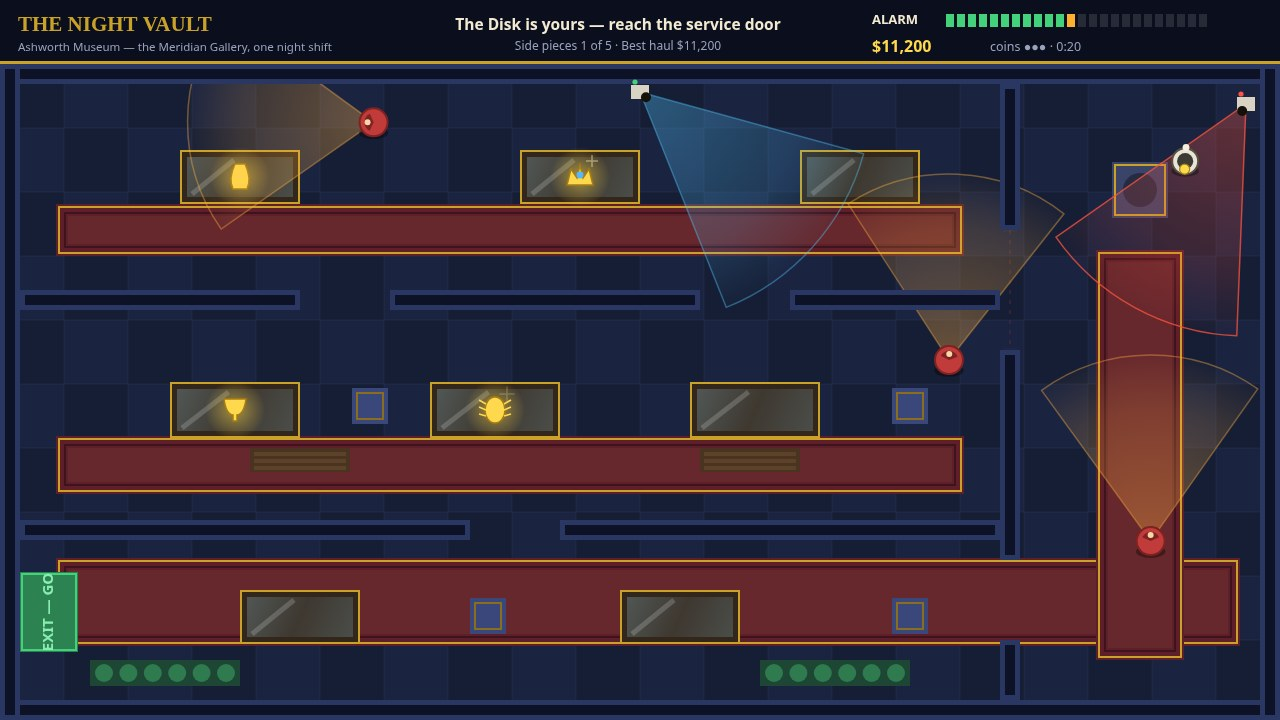
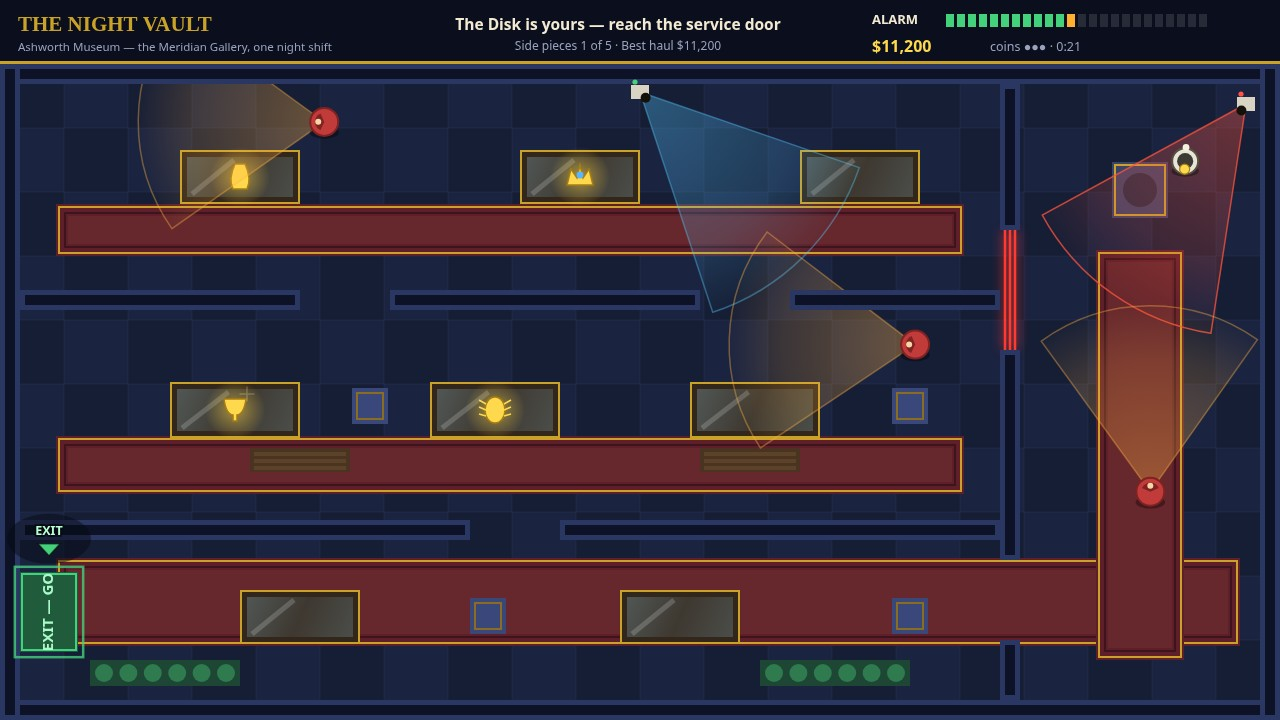
In-window revision: objective marker, guard mood bubbles, calmer camera opening

diff --git a/game/src/render.js b/game/src/render.js
@@ -1,8 +1,11 @@
 // Everything the player sees: the gallery floor and its furniture, the sweep of cones, the
-// actors, the HUD with its alarm meter, and the title, pause and ending screens. Canvas 2D,
-// drawn in field coordinates (1280x720); the page scales the canvas, never the art.
+// actors, the night's current goal marked with a pulsing ring and arrow so one glance at
+// one frame finds it, the HUD with its alarm meter, and the title, pause and ending
+// screens. Canvas 2D, drawn in field coordinates (1280x720); the page scales the canvas,
+// never the art.
 
 import { ALARM, FIELD, FONT_DISPLAY, FONT_UI, HUD_HEIGHT, PALETTE, VISION } from './config.js';
+import { guardMood, MOOD_CALM, MOOD_HUNT, MOOD_SPOTTED } from './guards.js';
 import { PHASE_CAUGHT, PHASE_WON } from './world.js';
 
 export const SCREEN_TITLE = 'title';
@@ -391,22 +394,34 @@ export function createRenderer(canvas) {
     ctx.arc(guard.x + Math.cos(guard.facing) * 6, guard.y + Math.sin(guard.facing) * 6, 3, 0, Math.PI * 2);
     ctx.fillStyle = '#f6d8a8';
     ctx.fill();
-    // What the guard is thinking, in the oldest notation there is.
-    let mark = null;
-    if (guard.mode === 'hunt') mark = '!';
-    else if (guard.sight > 0) mark = '!';
-    else if (guard.mode === 'investigate' || guard.mode === 'look') mark = '?';
-    if (mark) {
+    // What the guard is thinking, in the oldest notation there is: a bubble floating
+    // above its head — an amber '?' while it is only curious (staring, investigating,
+    // scanning), a red '!' once it is sure of the thief or the hunt is on.
+    const mood = guardMood(guard);
+    if (mood !== MOOD_CALM) {
+      const sure = mood === MOOD_SPOTTED || mood === MOOD_HUNT;
       const bob = Math.sin(t * 6) * 1.6;
+      const bx = guard.x;
+      const by = guard.y - guard.radius - 13 + bob;
+      if (mood === MOOD_HUNT) {
+        ctx.beginPath();
+        ctx.arc(bx, by, 11.5 + Math.sin(t * 10) * 1.5, 0, Math.PI * 2);
+        ctx.strokeStyle = 'rgba(255, 83, 71, 0.65)';
+        ctx.lineWidth = 1.6;
+        ctx.stroke();
+      }
       ctx.beginPath();
-      ctx.arc(guard.x + 13, guard.y - 19 + bob, 9, 0, Math.PI * 2);
-      ctx.fillStyle = mark === '!' ? '#ff5347' : '#ffd94d';
+      ctx.arc(bx, by, 9, 0, Math.PI * 2);
+      ctx.fillStyle = sure ? '#ff5347' : '#ffd94d';
       ctx.fill();
+      ctx.strokeStyle = 'rgba(10, 8, 4, 0.55)';
+      ctx.lineWidth = 1.2;
+      ctx.stroke();
       ctx.fillStyle = '#14100a';
       ctx.font = `bold 13px ${FONT_UI}`;
       ctx.textAlign = 'center';
       ctx.textBaseline = 'middle';
-      ctx.fillText(mark, guard.x + 13, guard.y - 18.5 + bob);
+      ctx.fillText(sure ? '!' : '?', bx, by + 0.5);
     }
   }
 
@@ -443,6 +458,69 @@ export function createRenderer(canvas) {
         ctx.fill();
       }
     }
+  }
+
+  /**
+   * The night's current goal, marked so a single glance at a single frame finds it: a
+   * pulsing outline around the target and a labelled arrow bobbing above it — gold over
+   * the Sun Disk while it waits on its pedestal, green over the service door once the
+   * Disk is in the bag and the door is the goal.
+   */
+  function drawObjectiveMarker(world) {
+    const t = world.time;
+    const pulse = 0.5 + 0.5 * Math.sin(t * 3.4);
+    let x;
+    let y;
+    let label;
+    if (world.hasDisk) {
+      const exit = world.level.exit;
+      x = exit.x + exit.w / 2;
+      y = exit.y + exit.h / 2;
+      label = 'EXIT';
+      const grow = pulse * 3;
+      ctx.strokeStyle = `rgba(67, 209, 124, ${0.55 + 0.35 * pulse})`;
+      ctx.lineWidth = 2.5;
+      ctx.strokeRect(exit.x - 3 - grow, exit.y - 3 - grow, exit.w + 6 + grow * 2, exit.h + 6 + grow * 2);
+    } else {
+      const disk = world.level.disk;
+      x = disk.x;
+      y = disk.y;
+      label = 'SUN DISK';
+      for (const ring of [0, 1]) {
+        ctx.beginPath();
+        ctx.arc(x, y, 31 + ring * 9 + pulse * 5, 0, Math.PI * 2);
+        ctx.strokeStyle = `rgba(255, 217, 77, ${ring === 0 ? 0.85 : 0.38})`;
+        ctx.lineWidth = ring === 0 ? 2.6 : 1.6;
+        ctx.stroke();
+      }
+    }
+    // The arrow: a chevron bobbing above the mark, pointing down at the goal, its name
+    // lettered over it on a dark stroke so it survives being shrunk to a thumbnail. A
+    // soft dark halo sits behind both, so the mark reads even over a lit carpet or a
+    // bright cone where gold on gold would vanish.
+    const tipY = y - 54 - Math.sin(t * 3.4) * 5;
+    ctx.beginPath();
+    ctx.ellipse(x, tipY - 17, 42, 25, 0, 0, Math.PI * 2);
+    ctx.fillStyle = 'rgba(7, 10, 20, 0.48)';
+    ctx.fill();
+    ctx.beginPath();
+    ctx.moveTo(x - 11, tipY - 12);
+    ctx.lineTo(x + 11, tipY - 12);
+    ctx.lineTo(x, tipY);
+    ctx.closePath();
+    ctx.fillStyle = world.hasDisk ? '#43d17c' : PALETTE.loot;
+    ctx.fill();
+    ctx.strokeStyle = 'rgba(10, 8, 4, 0.6)';
+    ctx.lineWidth = 1.4;
+    ctx.stroke();
+    ctx.font = `bold 12.5px ${FONT_UI}`;
+    ctx.textAlign = 'center';
+    ctx.textBaseline = 'middle';
+    ctx.lineWidth = 3.5;
+    ctx.strokeStyle = 'rgba(7, 10, 20, 0.85)';
+    ctx.strokeText(label, x, tipY - 24);
+    ctx.fillStyle = world.hasDisk ? '#b8ffd2' : '#ffe98a';
+    ctx.fillText(label, x, tipY - 24);
   }
 
   function drawHud(world, best) {
@@ -619,6 +697,7 @@ export function createRenderer(canvas) {
       drawThief(world);
       for (const guard of world.guards) drawGuard(guard, world.time);
       for (const camera of world.cameras) drawCamera(camera);
+      drawObjectiveMarker(world);
       // What the night just paid out, drifting up off the cases.
       ctx.textAlign = 'center';
       ctx.textBaseline = 'middle';

diff --git a/game/src/alarm.js b/game/src/alarm.js
@@ -1,6 +1,9 @@
 // The alarm meter: the night's tension as one number. Being seen pours points in (a guard's
 // eyes faster than a camera's lens, closer faster than far), hiding lets it drain, a tripped
-// laser dumps a lump in at once, and at the top the alarm trips and the hunt is on.
+// laser dumps a lump in at once, and at the top the alarm trips and the hunt is on. The one
+// mercy is the opening grace: for the first seconds of the night the cameras pour at half
+// their usual rate, so a first crossing of the first hall can go unseen — a guard who sees
+// the thief is never merciful, and neither is a laser.
 
 import { ALARM, VISION } from './config.js';
 
@@ -11,6 +14,8 @@ export function createAlarm() {
     peak: 0,
     /** Seconds since anyone last saw the thief; the drain waits for a quiet moment. */
     unseenFor: 0,
+    /** Seconds since the night began; the opening grace is measured against it. */
+    elapsed: 0,
     tripped: false,
 
     /**
@@ -18,10 +23,15 @@ export function createAlarm() {
      * from vision.js; returns true on the step the alarm trips.
      */
     update(dt, guardSight, cameraSight) {
+      this.elapsed += dt;
       const seen = Math.max(guardSight, cameraSight);
       if (seen > 0) {
         this.unseenFor = 0;
-        this.value += dt * (guardSight * VISION.guardRate + cameraSight * VISION.cameraRate);
+        // The cameras pour calmer while the night is young (see ALARM.openingSeconds);
+        // the guards' share of the pour is the full rate from the first second.
+        const cameraRate = VISION.cameraRate
+          * (this.elapsed < ALARM.openingSeconds ? ALARM.openingCameraScale : 1);
+        this.value += dt * (guardSight * VISION.guardRate + cameraSight * cameraRate);
       } else {
         this.unseenFor += dt;
         if (this.unseenFor > ALARM.decayDelay) this.value -= dt * ALARM.decay;

diff --git a/game/src/guards.js b/game/src/guards.js
@@ -13,6 +13,14 @@ export const GUARD_INVESTIGATE = 'investigate';
 export const GUARD_LOOK = 'look';
 export const GUARD_HUNT = 'hunt';
 
+export const MOOD_CALM = 'calm';
+export const MOOD_CURIOUS = 'curious';
+export const MOOD_SPOTTED = 'spotted';
+export const MOOD_HUNT = 'hunt';
+
+/** Sight at or above this is a guard sure of what it sees, not merely wondering. */
+const SPOTTED_SIGHT = 0.55;
+
 const TURN_RATE = 3.4;
 const ARRIVE = 8;
 
@@ -43,6 +51,22 @@ export function distractGuard(guard, point) {
   guard.mode = GUARD_INVESTIGATE;
   guard.focus = { x: point.x, y: point.y };
   guard.lostFor = 0;
+}
+
+/**
+ * What a guard's face says, for the renderer's bubble above its head: hunting once the
+ * hunt is on, spotted while its view of the thief is strong, curious while it stares,
+ * investigates or scans (or catches only a faint glimpse), and calm on patrol. A staring
+ * guard is curious, not yet certain — a glimpse is a question, not an answer.
+ */
+export function guardMood(guard) {
+  if (guard.mode === GUARD_HUNT) return MOOD_HUNT;
+  if (guard.sight >= SPOTTED_SIGHT) return MOOD_SPOTTED;
+  if (guard.mode === GUARD_SUSPICIOUS || guard.mode === GUARD_INVESTIGATE || guard.mode === GUARD_LOOK) {
+    return MOOD_CURIOUS;
+  }
+  if (guard.sight > 0) return MOOD_CURIOUS;
+  return MOOD_CALM;
 }
 
 /**

diff --git a/game/src/config.js b/game/src/config.js
@@ -48,6 +48,14 @@ export const ALARM = {
   decayDelay: 0.9,
   /** Crossing a live laser adds this much at once. */
   laserHit: 42,
+  /**
+   * The opening grace, in seconds: while the night is this young, the cameras pour at the
+   * calmer share below, so a first-time player can cross the first hall unseen while they
+   * are still learning the cones. A guard's eyes are never calmer, and neither is a laser.
+   */
+  openingSeconds: 20,
+  /** The share of the cameras' usual rate they pour during the opening grace. */
+  openingCameraScale: 0.5,
 };
 
 export const DISK = {
